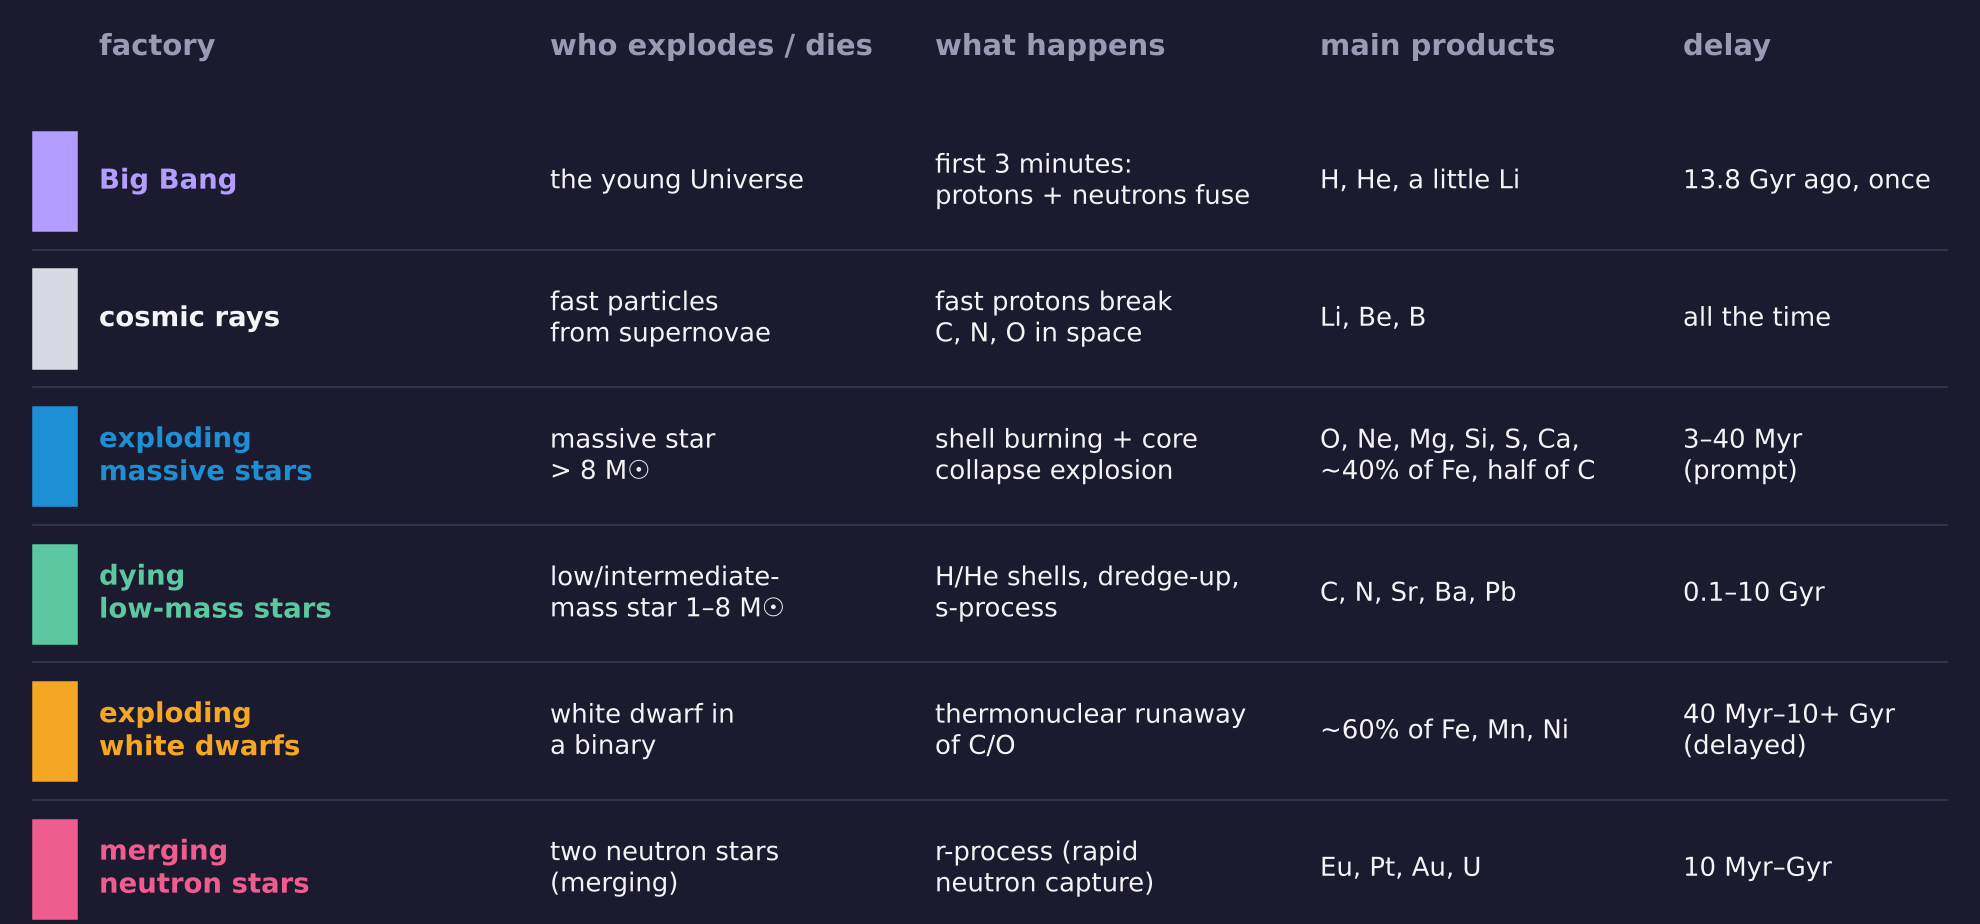
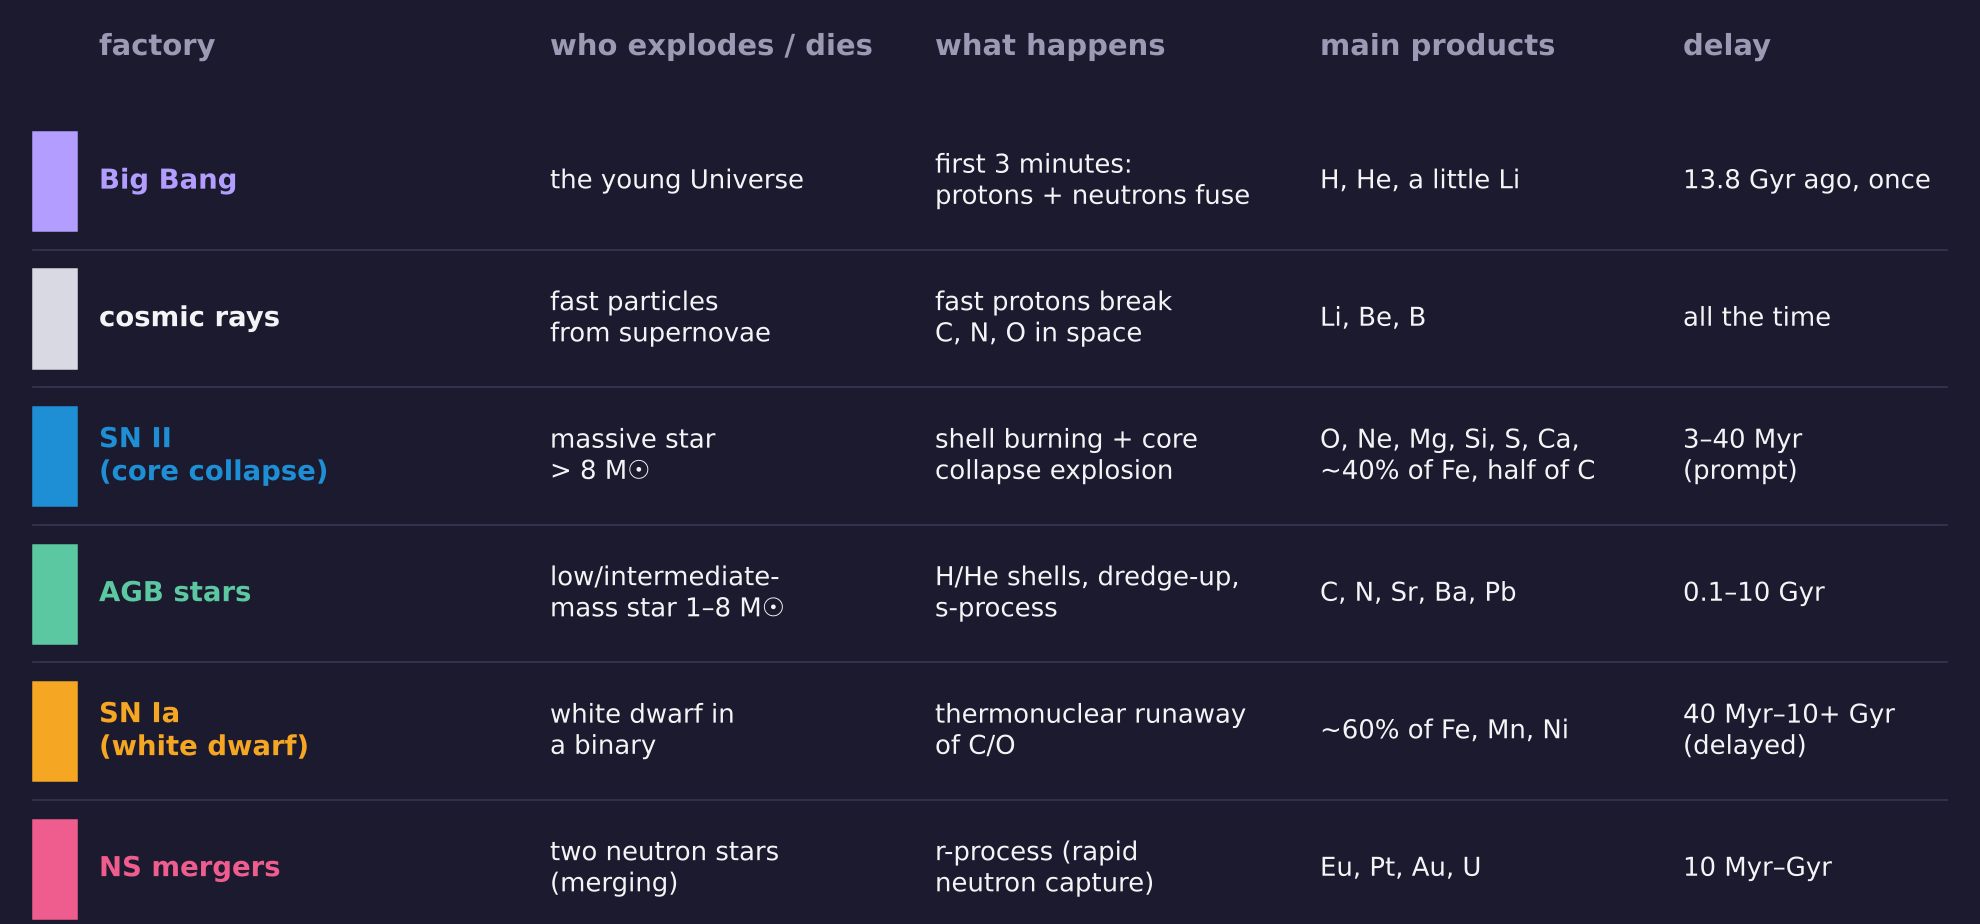
Factories table: label SN II / SN Ia / AGB / NS mergers rows
Claude-Session: https://claude.ai/code/session_01WBTdaRnm2ChJRsu6zYFdBL

diff --git a/figures/make_factory_figs.py b/figures/make_factory_figs.py
@@ -166,7 +166,8 @@ def overview():
     for i, (k, *cells) in enumerate(rows):
         y = 6.75 - i * 1.25
         ax.add_patch(Rectangle((0.3, y - 0.45), 0.4, 0.9, color=SOURCES[k][1]))
-        ax.text(cols[0], y, SOURCES[k][0].replace(" ", "\n", 1) if len(SOURCES[k][0]) > 14 else SOURCES[k][0], va="center", fontsize=18, fontweight="bold", color=SOURCES[k][1] if k != "cr" else INK)
+        lab = {"ccsn": "SN II\n(core collapse)", "ia": "SN Ia\n(white dwarf)", "agb": "AGB stars", "r": "NS mergers"}.get(k, SOURCES[k][0])
+        ax.text(cols[0], y, lab, va="center", fontsize=18, fontweight="bold", color=SOURCES[k][1] if k != "cr" else INK)
         for x, c in zip(cols[1:], cells):
             ax.text(x, y, c, va="center", fontsize=17)
         ax.plot([0.3, 17.7], [y - 0.62, y - 0.62], color="#3a3956", lw=1)
